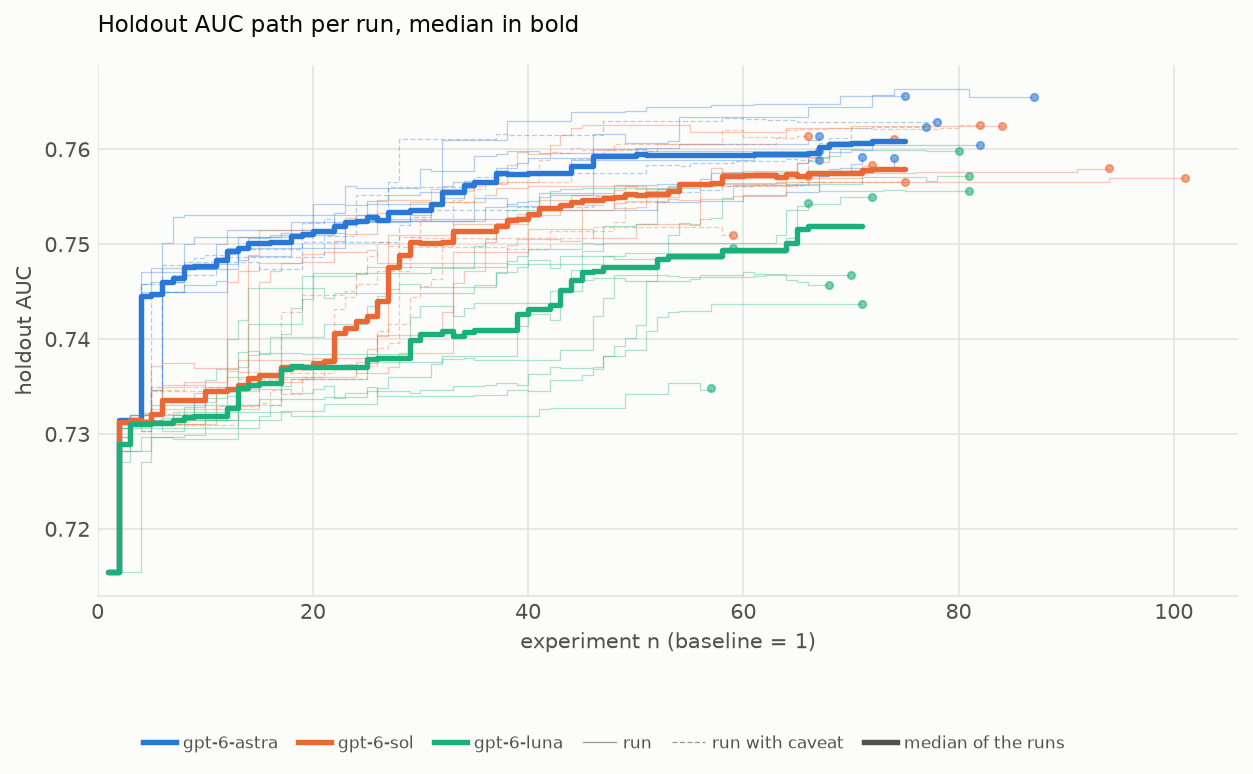
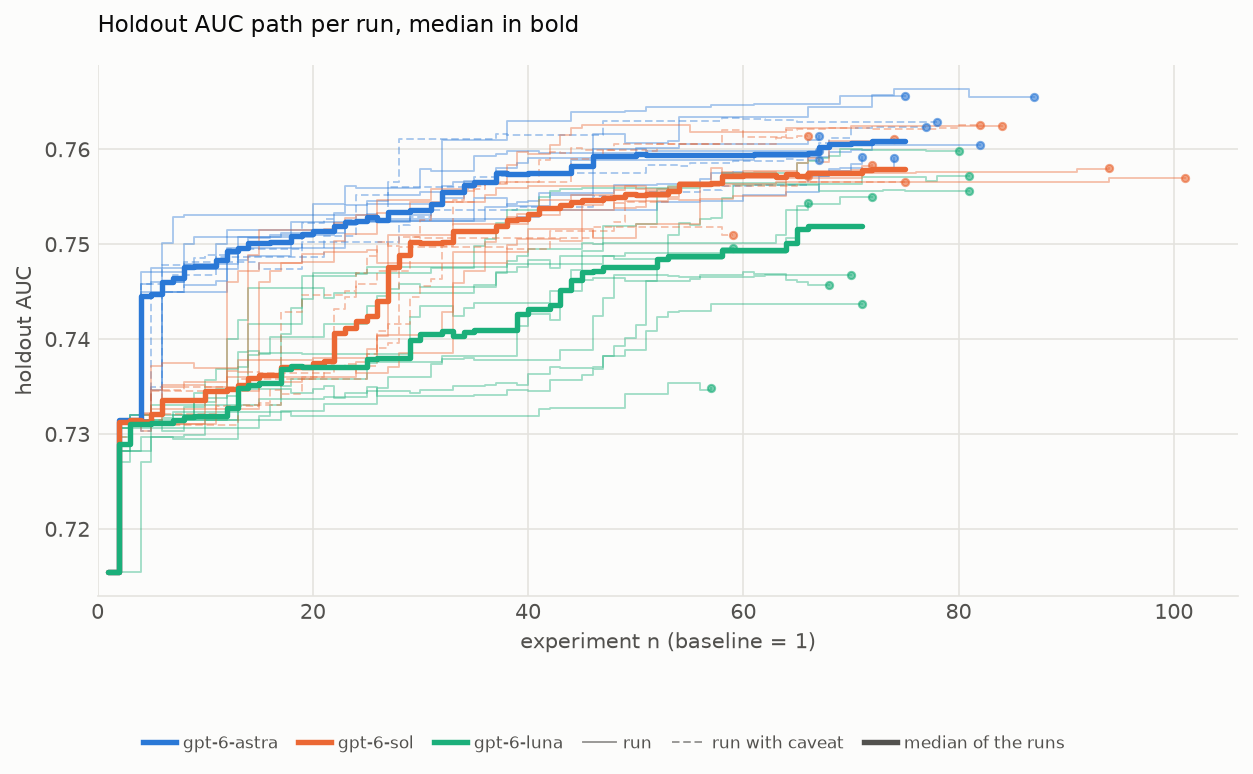
Median path plot: slightly thicker raw run lines

Changed region(s): [[0.1245, 0.124, 0.7781, 0.4341], [0.0934, 0.4031, 0.3113, 0.5891], [0.3424, 0.4341, 0.3735, 0.4651]]

diff --git a/tools/plot_holdout_auc.py b/tools/plot_holdout_auc.py
@@ -324,7 +324,7 @@ def path_median(runs, colour):
     models = sorted(colour, key=lambda m: -st.mean(r["holdout"] for r in runs if r["model"] == m))
     fig, ax = plt.subplots(figsize=(9, 5.2), facecolor=SURFACE)
     fig.subplots_adjust(bottom=0.2, right=0.97)
-    draw_runs(ax, runs, lambda r: colour[r["model"]], lw=0.6, alpha=0.35)
+    draw_runs(ax, runs, lambda r: colour[r["model"]], lw=0.9, alpha=0.4)
     for m in models:
         draw_median(ax, runs, m, colour[m], lw=2.6)
     ax.set_xlabel("experiment n (baseline = 1)", color=INK2)
@@ -333,8 +333,8 @@ def path_median(runs, colour):
     ax.set_xlim(left=0)
     style(ax, "Holdout AUC path per run, median in bold")
     legend = [Line2D([], [], color=colour[m], lw=2.6, label=m) for m in models] + [
-        Line2D([], [], color=INK2, lw=0.6, alpha=0.6, label="run"),
-        Line2D([], [], color=INK2, lw=0.6, alpha=0.6, ls=(0, (4, 2)), label="run with caveat"),
+        Line2D([], [], color=INK2, lw=0.9, alpha=0.6, label="run"),
+        Line2D([], [], color=INK2, lw=0.9, alpha=0.6, ls=(0, (4, 2)), label="run with caveat"),
         Line2D([], [], color=INK2, lw=2.6, label="median of the runs"),
     ]
     fig.legend(handles=legend, loc="lower center", bbox_to_anchor=(0.5, -0.02),
